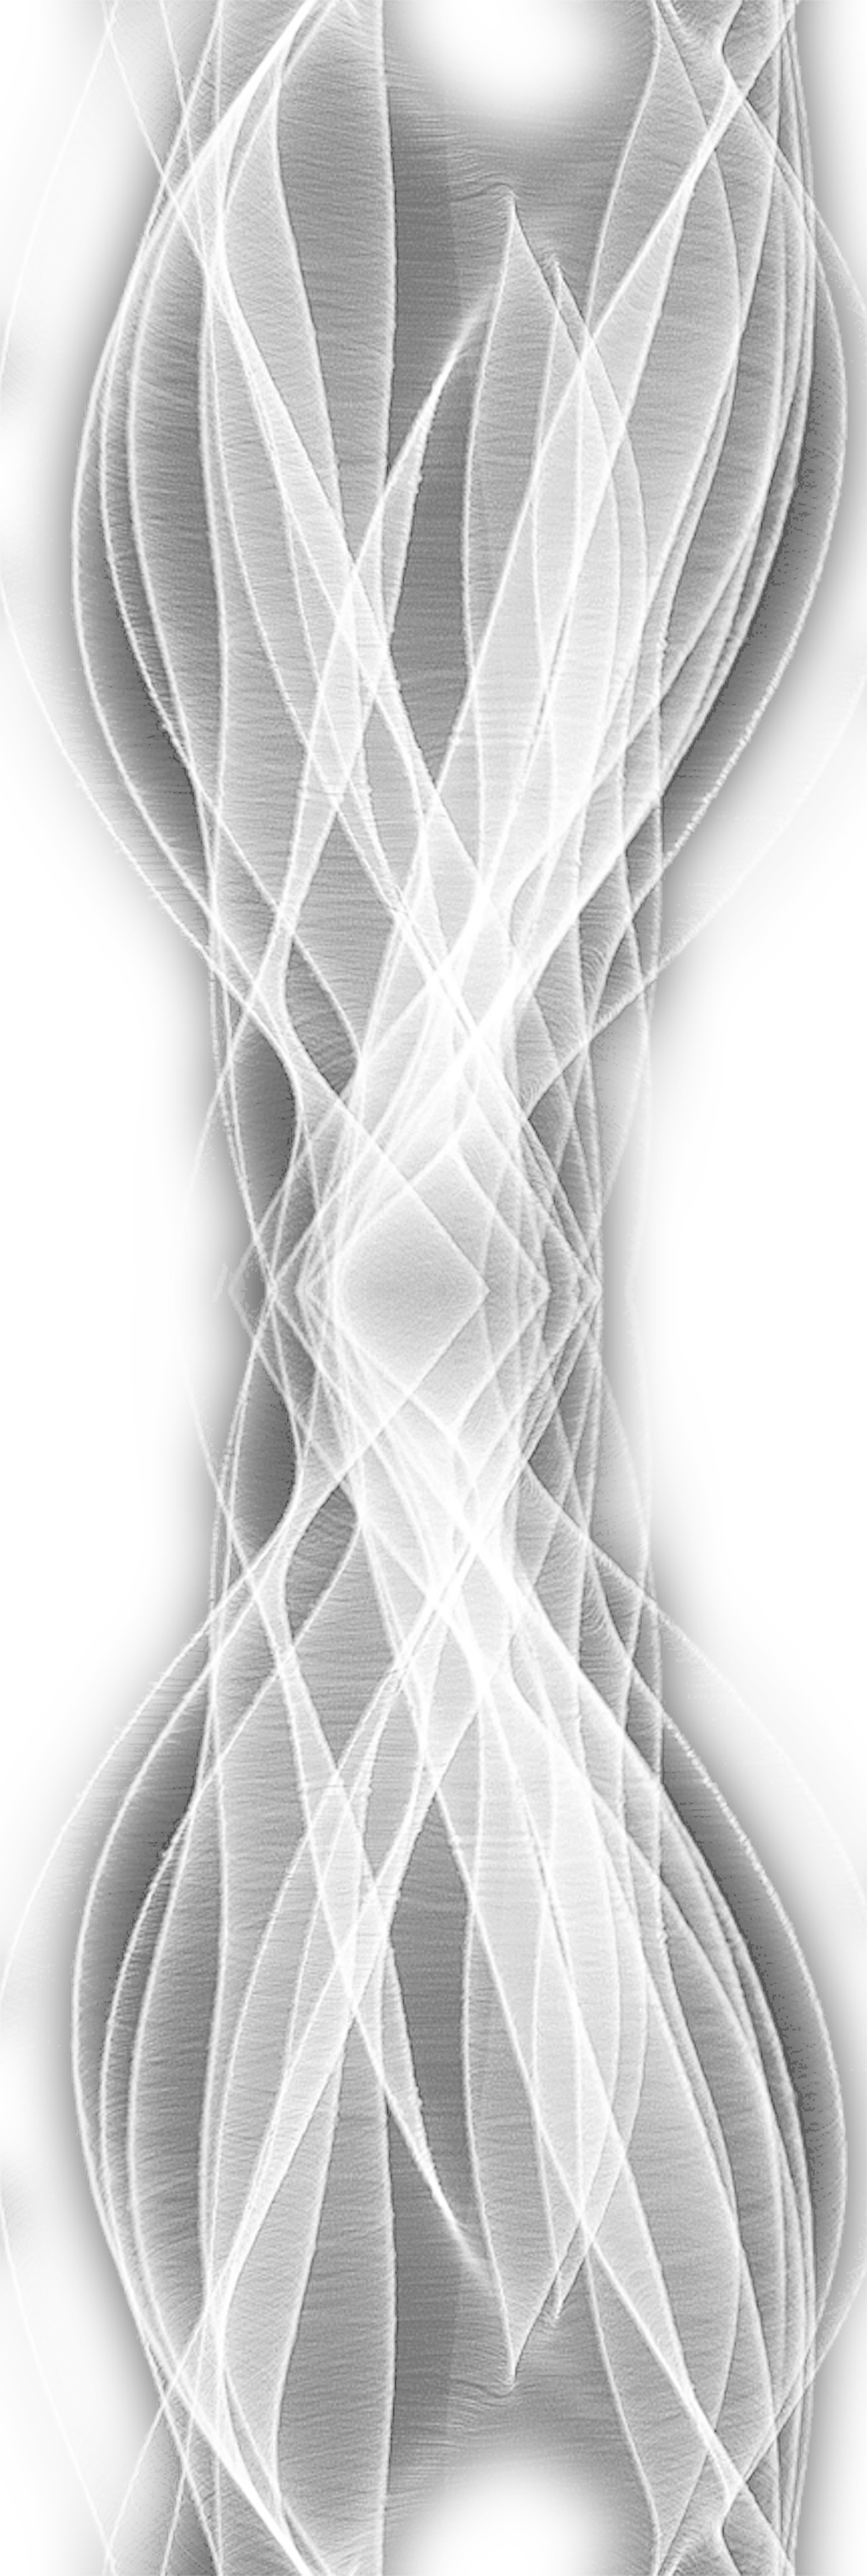
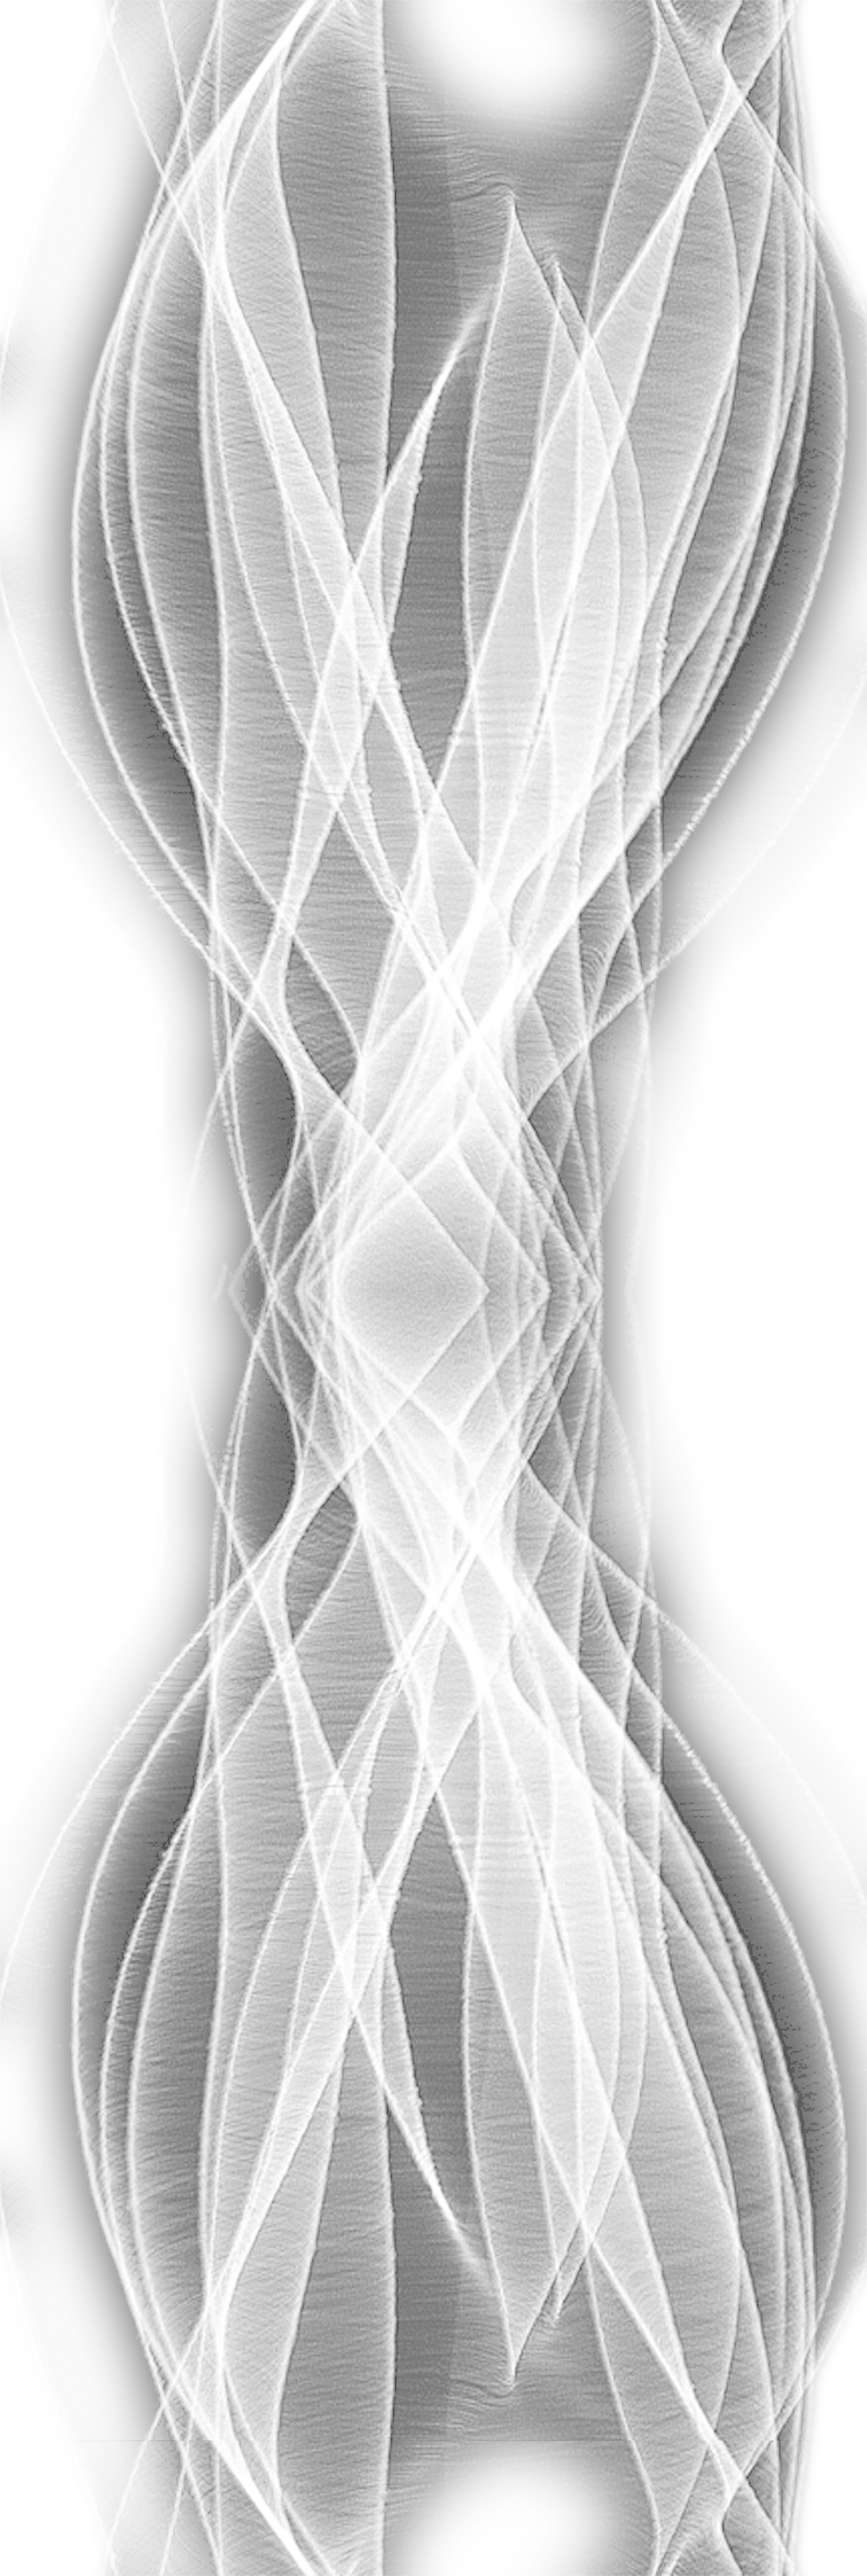
Avi | Updating songs landing page after feedback

diff --git a/src/main/resources/assets/app/user/css/pages/songsLandingPage.less b/src/main/resources/assets/app/user/css/pages/songsLandingPage.less
@@ -2,8 +2,6 @@
 @import '../common';
 
 #songs_landing {
-    background-color: #000;
-
     .page-header {
         .page-header-with-logo();
     }
@@ -13,6 +11,11 @@
     position: relative;
     height: 2500px !important;
     margin: 18% auto 0;
+
+    .logo-container.fixed {
+        left: 15%;
+        top: 45px !important;
+    }
 }
 .song-parallax-container{
     width: 1140px;
@@ -38,82 +41,60 @@
        &1 {
             background: url(../../user-img/songs/parallax/background_song.jpg)  0px 0px;
             background-repeat: no-repeat repeat;
-            &:before, &:after {
-                    content: '';
-                    display: inline-block;
-                    background: transparent url(../../user-img/songs/parallax/side_pattern.png) 0 0;
-                    width: 30px;
-                    background-repeat: no-repeat repeat;
-                    height: 100%;
-                    @media screen and (max-width: 1140px) {
-                        display: none;
-                    }
-                }
 
-                &:before {
-                    float: left;
-                }
-                &:after {
-                    float: right;
-                    -webkit-transform: rotate(180deg);
-                    -moz-transform: rotate(180deg);
-                    -o-transform: rotate(180deg);
-                    transform: rotate(180deg);
-                }
        }
 
        &2 {
-            background: url(../../user-img/songs/parallax/tambura_white_med.png) 0 0 no-repeat;
-            width: 356px;
-            -webkit-animation: rotation 100s linear -5s infinite;
-            -moz-animation: rotation 100s linear -5s infinite;
-            -o-animation: rotation 100s linear -5s infinite;
-            animation: rotation 100s linear -5s infinite;
+            background: url(../../user-img/songs/parallax/tambura_white_small.png) 0 0 no-repeat;
+            width: 190px;
+            -webkit-animation: antirotation 100s linear -5s infinite;
+            -moz-animation: antirotation 100s linear -5s infinite;
+            -o-animation: antirotation 100s linear -5s infinite;
+            animation: antirotation 100s linear -5s infinite;
             height: 495px;
-            top: 600px;
-            left: 58%;
+            top: 340px;
+            left: 13%;
             &.tambura-small-1 {
-                top: 2050px;
+                top: 1500px;
                 left: 12%;
                 opacity: 0.8;
                 background: url(../../user-img/songs/parallax/tambura_white_small.png) 0 0 no-repeat;
-                width: 238px;
                 height: 500px;
-                -webkit-animation: antirotation 80s linear 2s infinite;
-                -moz-animation: antirotation 80s linear 2s infinite;
-                -o-animation: antirotation 80s linear 2s infinite;
-                animation: antirotation 80s linear 2s infinite;
+                -webkit-animation: antirotation 100s linear 2s infinite;
+                -moz-animation: antirotation 100s linear 2s infinite;
+                -o-animation: antirotation 100s linear 2s infinite;
+                animation: antirotation 100s linear 2s infinite;
             }
        }
 
        &3 {
             background: url(../../user-img/songs/parallax/tambura_small.png) 0px  0px no-repeat;
             opacity: 0.25;
-            top: 470px;
-            left: 10%;
-            width: 356px;
+            top: 1000px;
+            left: 58%;
+            width: 190px;
             height: 400px;
-            -webkit-animation: antirotation 60s linear infinite;
-            -moz-animation: antirotation 60s linear infinite;
-            -o-animation: antirotation 60s linear infinite;
-            animation: antirotation 60s linear infinite;
+            -webkit-animation: rotation 60s linear 3s infinite;
+            -moz-animation: rotation 60s linear 3s infinite;
+            -o-animation: rotation 60s linear 3s infinite;
+            animation: rotation 60s linear 3s infinite;
 
             &.tambura-small-1 {
-                left: 55%;
-                top: 1850px;
-                -webkit-animation: rotation 70s linear 1s infinite;
-                -moz-animation: rotation 70s linear 1s infinite;
-                -o-animation: rotation 70s linear 1s infinite;
-                animation: rotation 70s linear 1s infinite;
+                left: 62%;
+                top: 2000px;
+                -webkit-animation: rotation 60s linear 1s infinite;
+                -moz-animation: rotation 60s linear 1s infinite;
+                -o-animation: rotation 60s linear 1s infinite;
+                animation: rotation 60s linear 1s infinite;
             }
-            &.tambura-small-2 {
+            /*&.tambura-small-2 {
                 top: 1300px;
                 left: 8%;
                 -webkit-animation: antirotation 70s linear 3s infinite;
                 -moz-animation: antirotation 70s linear 3s infinite;
                 -o-animation: antirotation 70s linear 3s infinite;
                 animation: antirotation 70s linear 3s infinite;
-            }
+            }*/
        }
 
        &4 {
@@ -125,33 +106,34 @@
             background: url(../../user-img/songs/parallax/viberations_new.png) 0px  0px repeat;
             opacity: 0.15;
             left: -4%;
+            height: 4277px;
             background-size: contain;
-            -webkit-animation: moveUp 60s linear infinite;
-            -moz-animation: moveUp 60s linear infinite;
-            -o-animation: moveUp 60s linear infinite;
-            animation: moveUp 60s linear infinite;
+            -webkit-animation: moveUp 100s linear infinite;
+            -moz-animation: moveUp 100s linear infinite;
+            -o-animation: moveUp 100s linear infinite;
+            animation: moveUp 100s linear infinite;
 
            &.top-to-bottom {
-                -webkit-animation: moveDown 60s linear 2s infinite;
-                -moz-animation: moveDown 60s linear 2s infinite;
-                -o-animation: moveDown 60s linear 2s infinite;
-                animation: moveDown 60s linear 2s infinite;
+                -webkit-animation: moveDown 100s linear infinite;
+                -moz-animation: moveDown 100s linear infinite;
+                -o-animation: moveDown 100s linear infinite;
+                animation: moveDown 100s linear infinite;
            }
        }
 
        &6 {
-          background: url(../../user-img/songs/parallax/ingla_new.png) 0px  0px;
+          background: url(../../user-img/songs/parallax/string1.png) 0px  0px;
           background-repeat: no-repeat repeat;
           background-size: contain;
-          width: 992px;
-          left: 19%;
+          width: 548px;
+          left: 29%;
        }
 
        &7 {
-            background: url(../../user-img/songs/parallax/pingla_new.png) 0px  0px;
+            background: url(../../user-img/songs/parallax/string2.png) 0px  0px;
             background-repeat: no-repeat repeat;
-            left: 28%;
-            width: 933px;
+            left: 35%;
+            width: 548px;
             background-size: contain;
             @media screen and (max-width: 768px) {
                 left: 4%;
@@ -159,24 +141,52 @@
        }
 
        &8 {
-            background: url(../../user-img/songs/parallax/sushamna_new.png) 0 0;
+            background: url(../../user-img/mainLandingPage/parallax/whiteString.png) 0 0;
             background-repeat: no-repeat repeat;
-            width: 323px;
-            left: 42%;
             background-size: contain;
+            left: 42%;
        }
 
        &9 {
             background: url(../../user-img/songs/parallax/snake.png) 0px  0 no-repeat;
-            top: 2318px;
+            top: 2244px;
             left: 40%;
        }
 
        &10 {
-           background: url(../../user-img/songs/parallax/vignette.png) 0px  0 no-repeat;
+           background: url(../../user-img/songs/parallax/vignette.png) 0px  0 repeat;
            opacity: 0.2;
-           position: fixed;
+           /*position: fixed;*/
+           width: 1140px;
        }
+
+       &11 {
+
+          &:before, &:after {
+               content: '';
+               display: inline-block;
+               background: transparent url(../../user-img/mainLandingPage/parallax/side_pattern.png) 0 0;
+               width: 30px;
+               background-repeat: no-repeat repeat;
+               height: 100%;
+               @media screen and (max-width: 1140px) {
+                   display: none;
+               }
+          }
+
+           &:before {
+               float: left;
+           }
+           &:after {
+               float: right;
+               -webkit-transform: rotate(180deg);
+               -moz-transform: rotate(180deg);
+               -o-transform: rotate(180deg);
+               transform: rotate(180deg);
+           }
+       }
+
+
 
     }
  }
@@ -221,37 +231,37 @@
 
   @-webkit-keyframes moveUp {
         0% {  background-position: 0 0; }
-        100% { background-position: 0 -4000px; }
+        100% { background-position: 0 -4277px; }
   }
   @-webkit-keyframes moveDown {
         0% {  background-position: 0 0; }
-        100% { background-position: 0 4000px; }
+        100% { background-position: 0 4277px; }
   }
 
   @-moz-keyframes moveUp {
         0% {  background-position: 0 0; }
-        100% { background-position: 0 -4000px; }
+        100% { background-position: 0 -4277px; }
   }
   @-moz-keyframes moveDown {
         0% {  background-position: 0 0; }
-        100% { background-position: 0 4000px; }
+        100% { background-position: 0 4277px; }
   }
    @-o-keyframes moveUp {
           0% {  background-position: 0 0; }
-          100% { background-position: 0 -4000px; }
+          100% { background-position: 0 -4277px; }
     }
    @-o-keyframes moveDown {
           0% {  background-position: 0 0; }
-          100% { background-position: 0 4000px; }
+          100% { background-position: 0 4277px; }
    }
 
    @keyframes moveUp {
           0% {  background-position: 0 0; }
-          100% { background-position: 0 -4000px; }
+          100% { background-position: 0 -4277px; }
    }
    @keyframes moveDown {
           0% {  background-position: 0 0; }
-          100% { background-position: 0 4000px; }
+          100% { background-position: 0 4277px; }
    }
 
 

diff --git a/src/main/resources/assets/app/user/partials/songs/featuredContent.html b/src/main/resources/assets/app/user/partials/songs/featuredContent.html
@@ -68,11 +68,11 @@
             <div class='pxSongLayers px-song-layer4' data-name='triangles'></div>
             <div class='pxSongLayers px-song-layer5' data-name='vibrations'></div>
             <div class='pxSongLayers px-song-layer5 top-to-bottom'></div>
-            <div class='pxSongLayers px-song-layer6' data-name='ingla' data-stellar-background-ratio="1.6" data-original="../../user-img/songs/parallax/ingla_new.png"></div>
-            <div class='pxSongLayers px-song-layer7' data-name='pingla' data-stellar-background-ratio="1.2" data-original="../../user-img/songs/parallax/pingla_new.png"></div>
-            <div class='pxSongLayers px-song-layer8' data-name='sushamna' data-stellar-background-ratio="1.8" data-original="../../user-img/songs/parallax/sushamna_new.png"></div>
+            <div class='pxSongLayers px-song-layer6' data-name='ingla' data-stellar-background-ratio="2" data-original="../../user-img/songs/parallax/string1.png"></div>
+            <div class='pxSongLayers px-song-layer7' data-name='pingla' data-stellar-background-ratio="2.5" data-original="../../user-img/songs/parallax/string2.png"></div>
+            <div class='pxSongLayers px-song-layer8' data-name='sushamna' data-stellar-background-ratio="1" data-original="../../user-img/mainLandingPage/parallax/whiteString.png"></div>
             <div class='pxSongLayers px-song-layer9' data-name='snake'></div>
-
+            <div class="pxSongLayers px-song-layer11 white-edges"></div>
         </div>
 
         <!-- thumbnail and middle content starts -->
@@ -80,7 +80,7 @@
             <div class='ajab-wrapper'>
                 <div class='homepage-content'>
                     <div class="page-header">
-                        <span class="logo-container">
+                        <span class="logo-container" sticky>
                             <a href="javascript:void(0)">songs</a>
                         </span>
                     </div>
